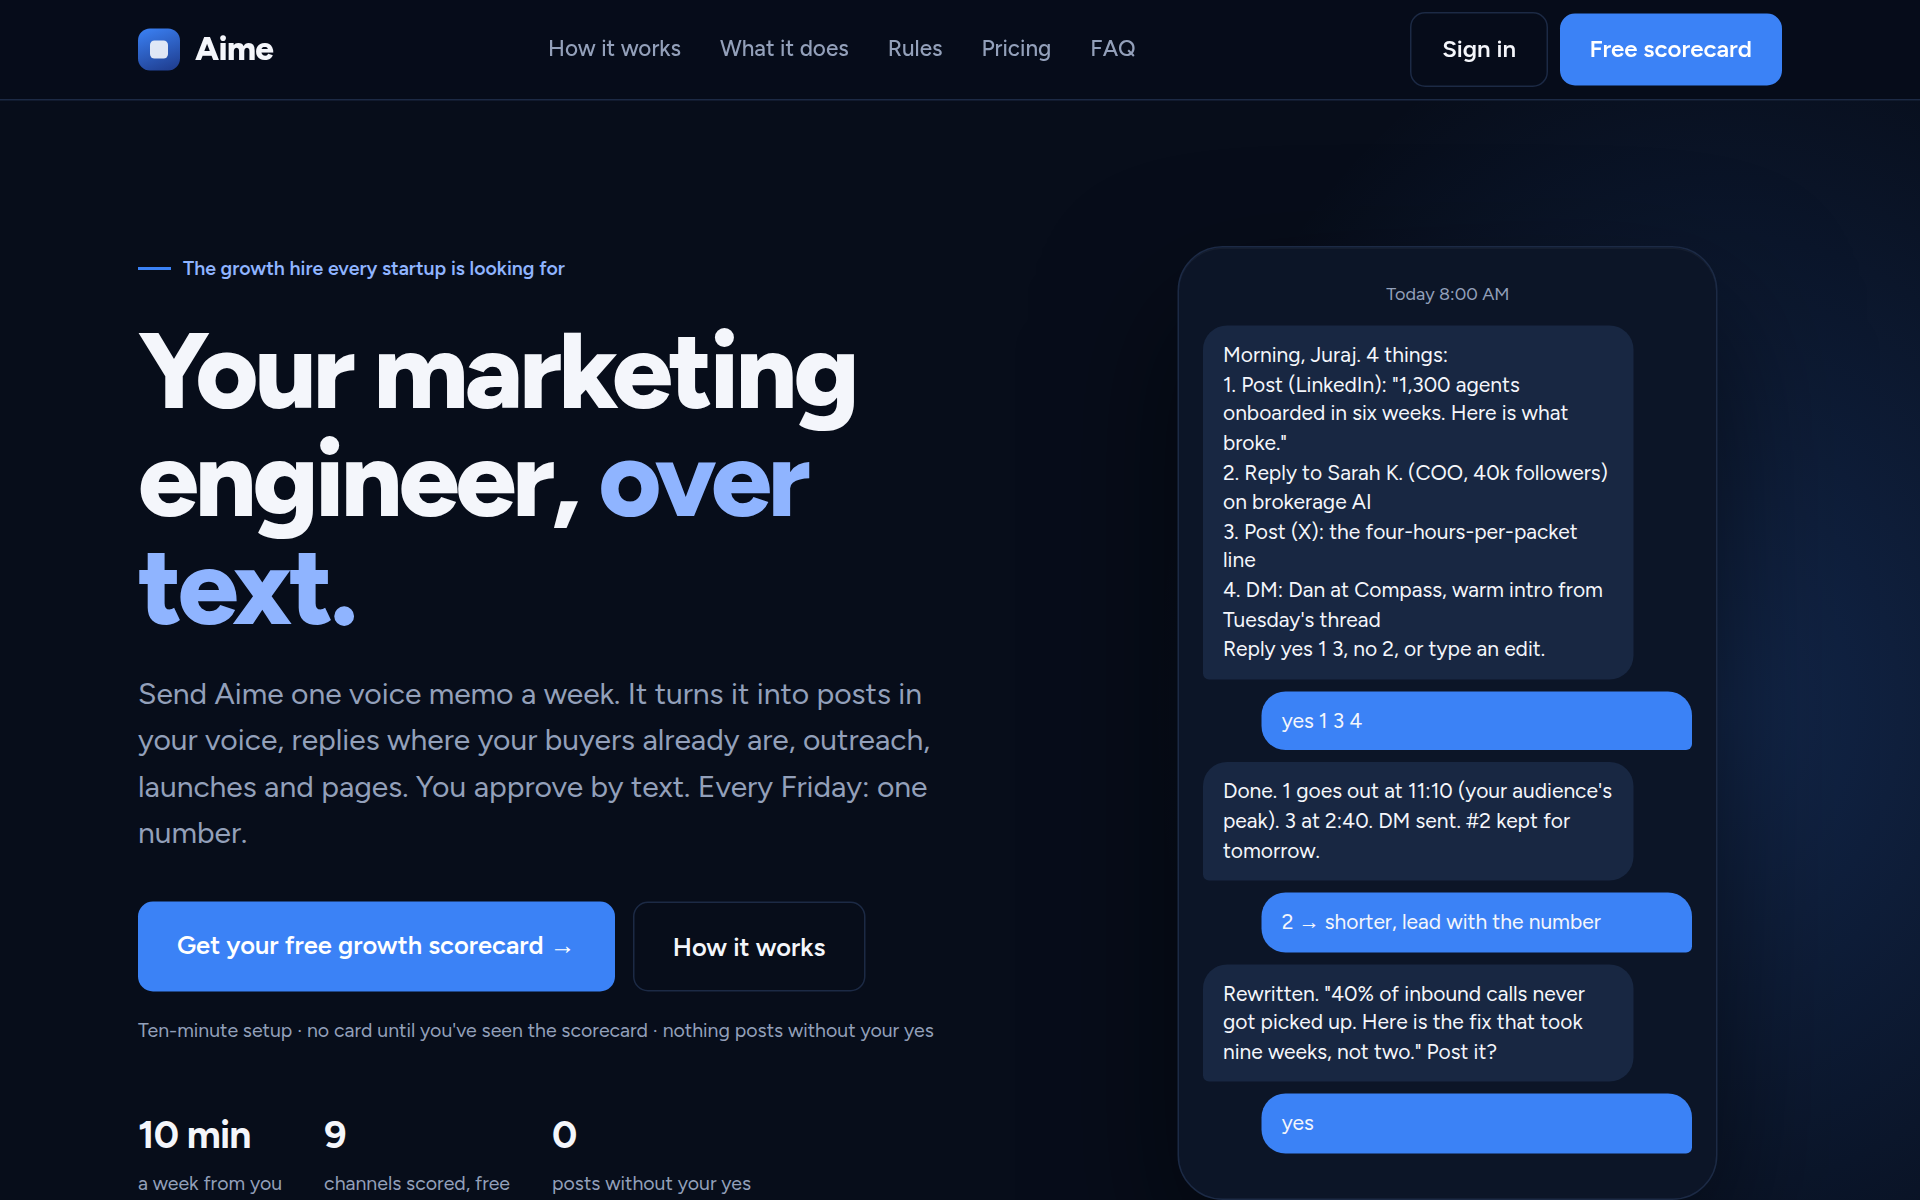
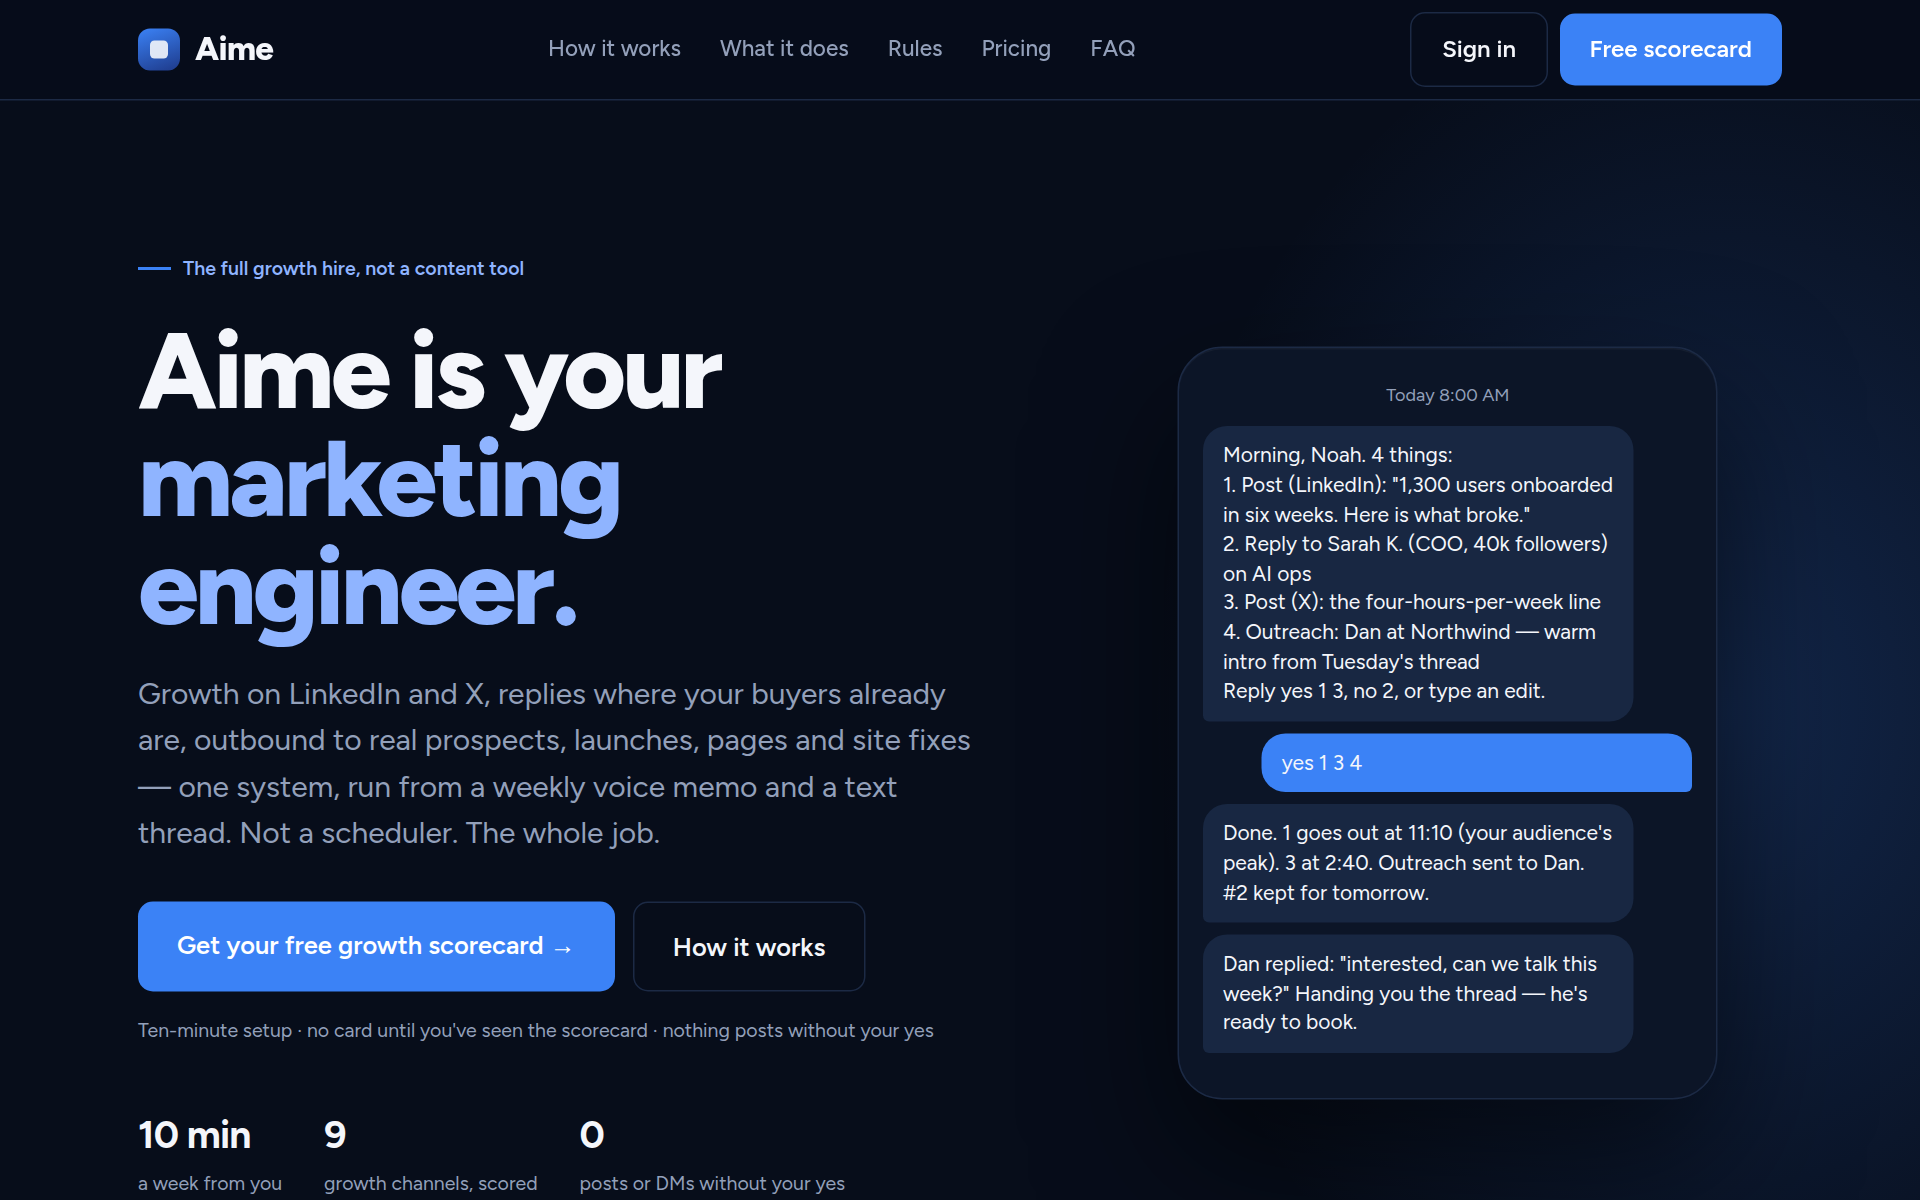
Site copy: full marketing-engineer positioning, not just posting
Broadens the headline, subhead and formula cards to name outreach and
client acquisition explicitly, and reworks the phone mockup to show a
real outreach reply instead of only content approvals. Softens language
so nothing implies automatic meeting-booking, which isn't built yet.

Claude-Session: https://claude.ai/code/session_015jMNLhoctozzBeGFpfg5EC

diff --git a/api/app/onboarding/site.py b/api/app/onboarding/site.py
@@ -91,42 +91,40 @@ def page() -> str:
 
 <header class="hero"><div class="wrap">
 <div>
-<div class="eyebrow">The growth hire every startup is looking for</div>
-<h1>Your marketing engineer, <em>over text.</em></h1>
-<p class="sub">Send {n} one voice memo a week. It turns it into posts in your voice, replies where your buyers already are, outreach, launches and pages. You approve by text. Every Friday: one number.</p>
+<div class="eyebrow">The full growth hire, not a content tool</div>
+<h1>{n} is your <em>marketing engineer.</em></h1>
+<p class="sub">Growth on LinkedIn and X, replies where your buyers already are, outbound to real prospects, launches, pages and site fixes — one system, run from a weekly voice memo and a text thread. Not a scheduler. The whole job.</p>
 <div class="cta"><a class="btn big" href="/start">Get your free growth scorecard →</a><a class="btn ghost big" href="#how">How it works</a></div>
 <div class="fine">Ten-minute setup · no card until you've seen the scorecard · nothing posts without your yes</div>
-<div class="proof"><div><b>10 min</b><span>a week from you</span></div><div><b>9</b><span>channels scored, free</span></div><div><b>0</b><span>posts without your yes</span></div></div>
+<div class="proof"><div><b>10 min</b><span>a week from you</span></div><div><b>9</b><span>growth channels, scored</span></div><div><b>0</b><span>posts or DMs without your yes</span></div></div>
 </div>
 <div class="phone"><div class="t">Today 8:00 AM</div>
 <div class="msg in">Morning, Noah. 4 things:
 1. Post (LinkedIn): "1,300 users onboarded in six weeks. Here is what broke."
 2. Reply to Sarah K. (COO, 40k followers) on AI ops
 3. Post (X): the four-hours-per-week line
-4. DM: Dan at Northwind, warm intro from Tuesday's thread
+4. Outreach: Dan at Northwind — warm intro from Tuesday's thread
 Reply yes 1 3, no 2, or type an edit.</div>
 <div class="msg out">yes 1 3 4</div>
-<div class="msg in">Done. 1 goes out at 11:10 (your audience's peak). 3 at 2:40. DM sent. #2 kept for tomorrow.</div>
-<div class="msg out">2 → shorter, lead with the number</div>
-<div class="msg in">Rewritten. "40% of signups never finished onboarding. Here is the fix that took nine weeks, not two." Post it?</div>
-<div class="msg out">yes</div></div>
+<div class="msg in">Done. 1 goes out at 11:10 (your audience's peak). 3 at 2:40. Outreach sent to Dan. #2 kept for tomorrow.</div>
+<div class="msg in">Dan replied: "interested, can we talk this week?" Handing you the thread — he's ready to book.</div></div>
 </div></header>
 
 <section id="how"><div class="wrap"><h2>How it works</h2><p class="lead">You already know what happened this week. Saying it out loud is the whole job.</p>
 <div class="grid g3">
 <div class="card"><div class="num">01 · ONCE</div><h3>Ten-minute setup</h3><p>Company, three best customers, connect LinkedIn and X, your phone. You get a free growth scorecard: nine channels scored, the biggest gap named, your first two weeks planned.</p></div>
 <div class="card"><div class="num">02 · WEEKLY</div><h3>One voice memo</h3><p>Ten minutes, whenever. What shipped, what a customer said, what you got wrong, what you believe. {n} pulls the claims and drafts the week in your voice, not "AI voice".</p></div>
-<div class="card"><div class="num">03 · DAILY</div><h3>Approve by text</h3><p>A numbered brief every morning. yes 1 3, no 2, or type an edit. It schedules, posts, replies, follows up. Friday it texts you the one number that matters and what changed it.</p></div>
+<div class="card"><div class="num">03 · DAILY</div><h3>Approve by text</h3><p>A numbered brief every morning: posts, replies, outreach. yes 1 3, no 2, or edit. It schedules, posts, follows up, and hands you real replies to close. Friday: one number.</p></div>
 </div></div></section>
 
-<section id="formula"><div class="wrap"><h2>What a marketing engineer does. All of it.</h2><p class="lead">This is the job description going around every startup. Each line is a working part of {n}, not a slide.</p>
+<section id="formula"><div class="wrap"><h2>What a marketing engineer does. All of it.</h2><p class="lead">Not a content calendar with a chatbot on top. Every line below is a system running in {n}, not a slide.</p>
 <div class="grid g2 formula">
 <div class="card"><div class="k">01</div><div><h3>Judgment on what to build first</h3><p>Scores content, SEO, social, email, launches, community, partners, product-led and ads for <i>your</i> company, sequences the fixes, and re-plans every Monday from last week's numbers.</p></div></div>
 <div class="card"><div class="k">02</div><div><h3>Founder voice, not brand voice</h3><p>Learns how you actually write from your own posts. Every draft is checked against it; anything that reads like a bot is rejected before you ever see it.</p></div></div>
 <div class="card"><div class="k">03</div><div><h3>Goes where the attention already is</h3><p>Maps the accounts your buyers actually read and reply to, then puts you in those threads daily. Reach follows replies.</p></div></div>
 <div class="card"><div class="k">04</div><div><h3>Measures what matters</h3><p>Impressions inside your ICP, not vanity totals. Signups tied to the post that caused them. One number, every Friday.</p></div></div>
 <div class="card"><div class="k">05</div><div><h3>Ships pages and launches</h3><p>Comparison, use-case and integration pages built from your real claims. Launch kits with the posts, the DMs and the day-by-day plan.</p></div></div>
-<div class="card"><div class="k">06</div><div><h3>Relationships and outreach</h3><p>Warm, sequenced, conditional on silence. Joint posts with founders who share your buyer. Every DM waits for your yes.</p></div></div>
+<div class="card"><div class="k">06</div><div><h3>Outreach and client acquisition</h3><p>Finds real prospects who match your customers, opens warm, follows up if they go quiet, stops the moment they reply. A reply comes straight to your phone to close — no lead sits in a CRM no one opens.</p></div></div>
 <div class="card"><div class="k">07</div><div><h3>Fixes your site</h3><p>Audits the signup field, the proof, the speed, the message; proposes the change; ships it when you tap.</p></div></div>
 <div class="card"><div class="k">08</div><div><h3>Builds small tools</h3><p>Calculators, checkers, graders your buyers will use and share. Proposed by text, built when you say build 2.</p></div></div>
 </div></div></section>
